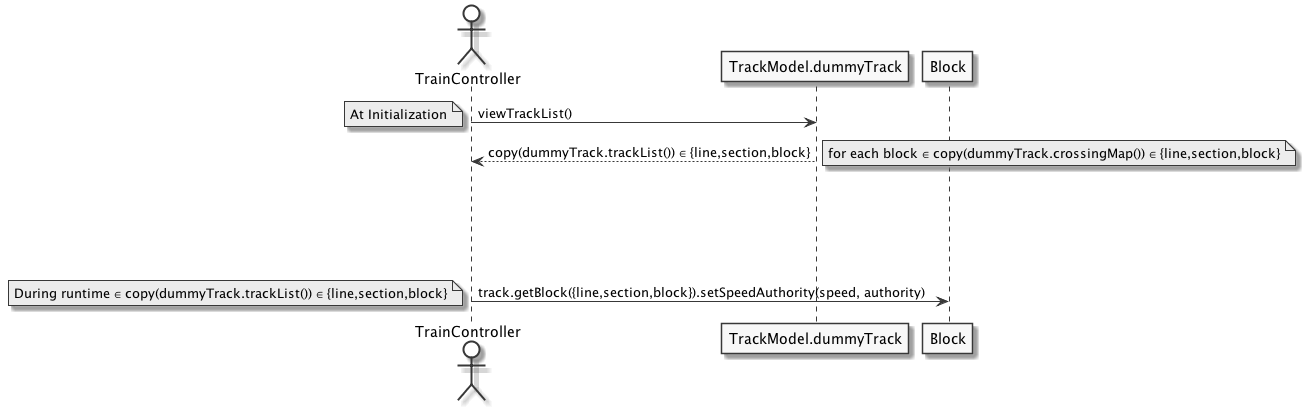
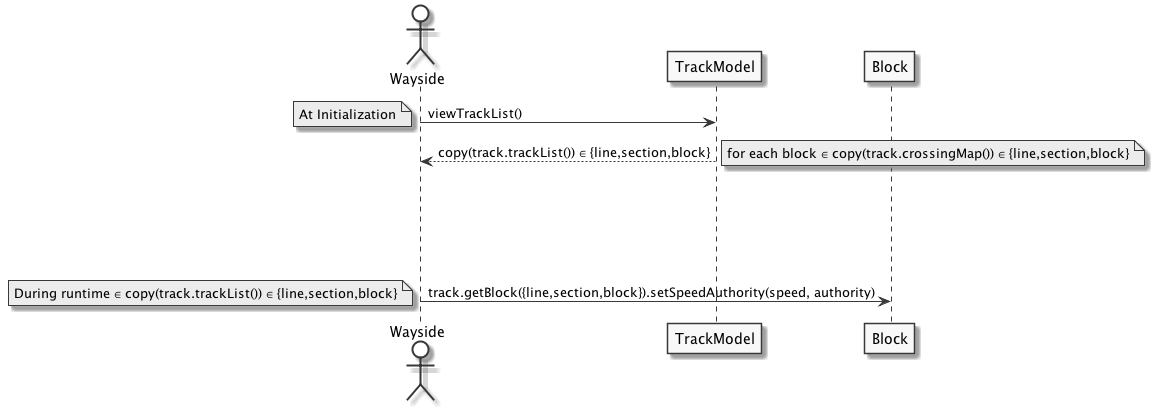
Fixed error in image

diff --git a/work_reports/wp2/system_design.tex b/work_reports/wp2/system_design.tex
@@ -1077,7 +1077,7 @@ In this section, we detail the sequence diagrams each subsystem.
 	\caption{Set speed and authority description}
 	\begin{tabular}{|l|l|}
 		\hline
-		Actors & \parbox[t]{10cm}{TrainController} \\ \hline
+		Actors & \parbox[t]{10cm}{TrackController} \\ \hline
 		Description & \parbox[t]{10cm}{The TrainController sets a given speed and authority at a block} \\ \hline
 		Data &  \parbox[t]{10cm}{Double Speed, Block Authority} \\ \hline
 		Stimulus &  \parbox[t]{10cm}{The TrainController calling the track model} \\ \hline

diff --git a/src/main/java/TrackModel/Block.java b/src/main/java/TrackModel/Block.java
@@ -269,6 +269,9 @@ public class Block implements Comparable<Block>{
 		return this.superTrackModel.blockStationMap.get(this);
 	}
 
+	public Crossing getAssociatedCrossing(){
+		return this.superTrackModel.crossingMap.get(this);
+	}
 	/** Implements the comparable interface for blocks via the associalted blockNum of a given block.
 	* At this time, this implementation does not verify that blocks are the same across lines.
 	*/

diff --git a/src/main/java/TrackModel/Crossing.java b/src/main/java/TrackModel/Crossing.java
@@ -11,7 +11,8 @@ public class Crossing{
 	public Block hostBlock;
 	public TrackModel superTrackModel;
 
-	public Crossing(Block hostBlock){
+	public Crossing(TrackModel superTrackModel, Block hostBlock){
+		this.superTrackModel = superTrackModel;
 		this.hostBlock = hostBlock;
 	}
 }
